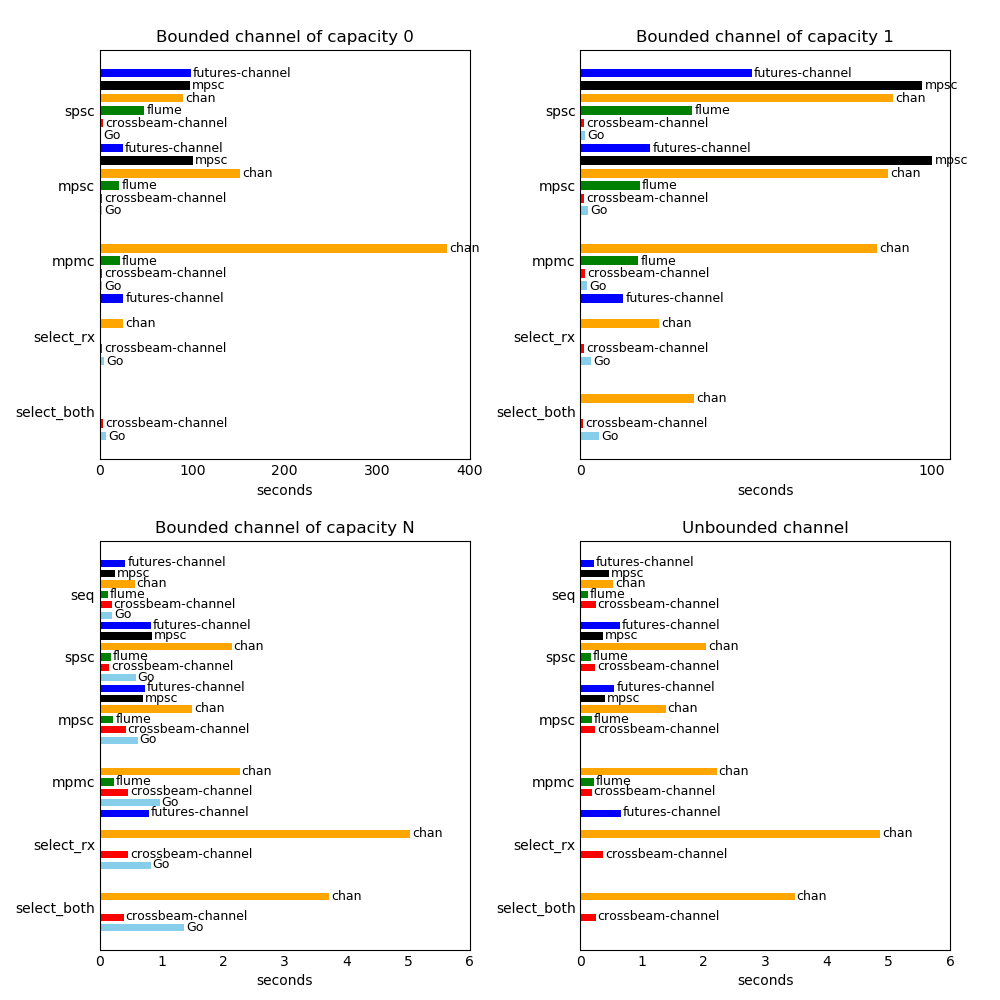
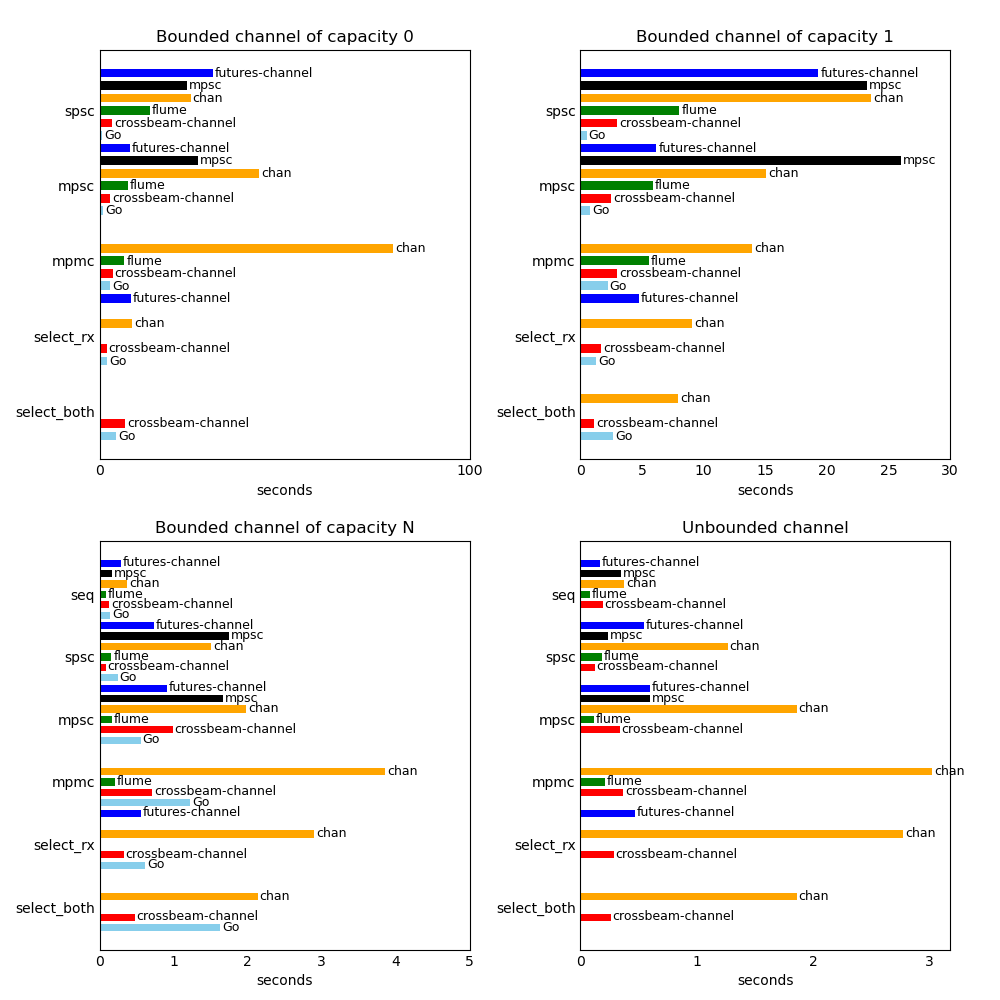
Capped exponential backoff

diff --git a/src/lib.rs b/src/lib.rs
@@ -305,7 +305,8 @@ fn wait_lock<'a, T>(lock: &'a Spinlock<T>) -> SpinlockGuard<'a, T> {
             }
             thread::yield_now();
         }
-        thread::sleep(Duration::from_nanos(1 << i));
+        // Sleep for at most 1 ms
+        thread::sleep(Duration::from_nanos((1 << i).min(1_000_000)));
         i += 1;
     }
 }

diff --git a/README.md b/README.md
@@ -47,6 +47,8 @@ flume = "x.y"
 Although Flume has its own extensive benchmarks, don't take it from here that Flume is quick.
 The following graph is from the `crossbeam-channel` benchmark suite.
 
+Tests were performed on an AMD Ryzen 7 3700x with 8/16 cores running Linux kernel 5.11.2 with the bfq scheduler.
+
 # <img src="misc/benchmarks.png" alt="Flume benchmarks (crossbeam benchmark suite)" width="100%"/>
 
 ## License
